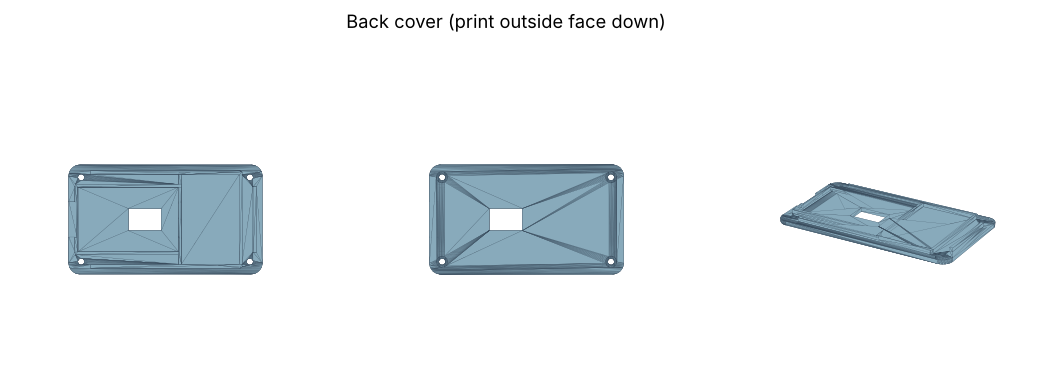
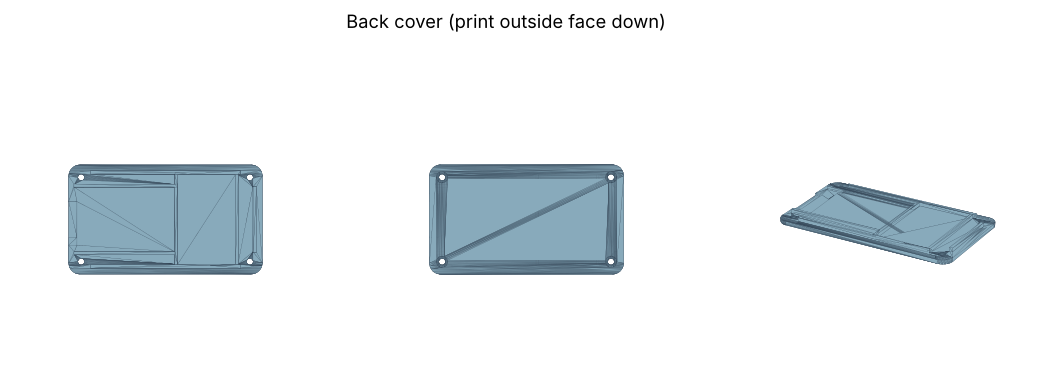
Reach the charger's switch through the left wall, not the back
The LiPo Amigo Pro's power switch is on its top, beside the USB-C socket.
The charger lies top towards the display, so the window in the back
cover faced the underside of its board and couldn't reach the switch.

The left wall's opening now takes in the switch's lever as well as the
USB-C plug: one opening, so no thin pillar of wall is left between
them. The back cover's lip no longer runs along the left wall, so the
charger's end goes right against it, about 2 mm from the outside, and
the switch slides with a fingernail or a pen tip. Where the lever sits
across the board isn't on any drawing to hand: AMIGO_SWITCH_ACROSS is
marked MEASURE.

Claude-Session: https://claude.ai/code/session_0192d9qTj9z8ZLN8ujS1jjpw

diff --git a/hardware/case/case.py b/hardware/case/case.py
@@ -10,13 +10,14 @@ layer behind the Pico, side by side, so the case is little bigger than the
 Display Pack:
 
     front.stl     the front shell: bezel with the display window, button
-                  and LED holes, side walls, the charger's USB-C opening and
-                  screw bosses. Print face down.
+                  and LED holes, side walls, an opening onto the charger's
+                  USB-C socket and power switch, and screw bosses. Print
+                  face down.
     shelf.stl     a shelf between the Pico and the battery layer: posts on
                   it hold the Pico into the Display Pack's sockets, and the
                   charger and battery hold it in place. Print flat, posts up.
     back.stl      the back cover: pockets for the charger and battery and a
-                  window onto the charger's switch. Print outside face down.
+                  Print outside face down.
     buttons.stl   four button caps for A, B, X and Y: a tab inside the
                   bezel keeps each in. Print tab down.
 
@@ -123,10 +124,13 @@ AMIGO_PCB = 1.0
 AMIGO_USB_H = 1.6
 ## Opening for a USB-C plug's moulding.
 AMIGO_USB_OPENING = (13.0, 7.5)
-## Power switch and LEDs, from its USB end and bottom edge: the back
-## cover's window. MEASURE.
-AMIGO_SWITCH = (24.0, 11.5)
-AMIGO_SWITCH_WINDOW = (12.0, 8.0)
+## Power switch: on its top, beside the USB-C socket at the same end, its
+## lever reached through the left wall. The lever's centre from the board's
+## edge nearest the case's bottom, and above the board. MEASURE.
+AMIGO_SWITCH_ACROSS = 18.5
+AMIGO_SWITCH_H = 1.5
+## Opening for the lever, beside the USB-C's: wide enough to slide it.
+AMIGO_SWITCH_OPENING = (7.0, 4.0)
 
 ## Its height with its connectors and switch (published).
 AMIGO_H = 7.0
@@ -196,9 +200,8 @@ DEPTH = Z_SPLIT + WALL
 ## wall, for its USB-C, and between the left-hand bosses) and the battery,
 ## turned, side by side. The battery needs to clear the right-hand bosses
 ## only if it reaches them; otherwise just the back cover's lip.
-INSIDE_L = max(PACK_L + 2 * BOSS_CLEAR,
-               LIP_T + FIT + AMIGO_L + GAP + BATTERY_W + FIT + LIP_T + FIT)
-_BATTERY_END = LIP_T + FIT + AMIGO_L + GAP + BATTERY_W + FIT
+INSIDE_L = max(PACK_L + 2 * BOSS_CLEAR, FIT + AMIGO_L + GAP + BATTERY_W + FIT + LIP_T + FIT)
+_BATTERY_END = FIT + AMIGO_L + GAP + BATTERY_W + FIT
 _BATTERY_MARGIN = BOSS_CLEAR if _BATTERY_END > INSIDE_L - BOSS_CLEAR else LIP_T + FIT
 INSIDE_H = max(PACK_W + FIT, AMIGO_W + FIT + 2 * BOSS_CLEAR,
                BATTERY_L + FIT + 2 * _BATTERY_MARGIN)
@@ -206,10 +209,10 @@ LENGTH = INSIDE_L + 2 * WALL
 HEIGHT = INSIDE_H + 2 * WALL
 
 ## Where things are on the case, from its outside bottom-left corner. The
-## charger's USB end is just inside the back cover's lip.
+## charger's USB end is against the left wall.
 BOARD_X = WALL + (INSIDE_L - PACK_L) / 2
 BOARD_Y = WALL + (INSIDE_H - PACK_W) / 2
-AMIGO_X = WALL + FIT / 2 + LIP_T + FIT / 2
+AMIGO_X = WALL + FIT / 2
 AMIGO_Y = (HEIGHT - AMIGO_W) / 2
 BATTERY_X = AMIGO_X + AMIGO_L + GAP
 BATTERY_Y = (HEIGHT - BATTERY_L) / 2
@@ -301,7 +304,11 @@ def pico_point(along, across):
     return BOARD_X + PICO_X + x, BOARD_Y + PICO_Y + across
 
 
-## @brief Cut the charger's USB-C opening, in the left wall.
+## @brief Cut the charger's opening in the left wall: one for its USB-C
+#         plug and its power switch's lever, beside each other.
+#
+# One opening rather than two, so that no thin pillar of wall is left
+# between them.
 #
 # The Pico's own USB socket gets no opening: the case comes open to flash
 # the Pico (four screws), which is also the way to its BOOTSEL button.
@@ -311,8 +318,12 @@ def pico_point(along, across):
 #
 # @sideeffects None.
 def usb_openings():
-    amigo_z = Z_SPLIT - AMIGO_PLATFORM - AMIGO_PCB - AMIGO_USB_H
-    return end_wall_opening(True, AMIGO_Y + AMIGO_W / 2, amigo_z, AMIGO_USB_OPENING)
+    board_z = Z_SPLIT - AMIGO_PLATFORM - AMIGO_PCB
+    usb = end_wall_opening(True, AMIGO_Y + AMIGO_W / 2, board_z - AMIGO_USB_H,
+                           AMIGO_USB_OPENING)
+    switch = end_wall_opening(True, AMIGO_Y + AMIGO_SWITCH_ACROSS, board_z - AMIGO_SWITCH_H,
+                              AMIGO_SWITCH_OPENING)
+    return Manifold.batch_hull([usb, switch])
 
 
 ## @brief Model the front shell.
@@ -347,8 +358,12 @@ def front_shell():
     return shell - usb_openings()
 
 
-## @brief Model the back cover's lip: strips along each wall, inside it,
+## @brief Model the back cover's lip: strips along the walls, inside them,
 #         that line the cover up with the shell.
+#
+# None along the left wall: the charger's end goes right against it, so
+# that its switch and USB-C socket are close to the outside. The other
+# three line the cover up.
 #
 # @return The lip, clear of the corner bosses.
 #
@@ -360,7 +375,6 @@ def back_lip():
     end = WALL + BOSS_D + 1.0
     return (box(end, i0, z0, LENGTH - end, i1, z1)
             + box(end, HEIGHT - i1, z0, LENGTH - end, HEIGHT - i0, z1)
-            + box(i0, end, z0, i1, HEIGHT - end, z1)
             + box(LENGTH - i1, end, z0, LENGTH - i0, HEIGHT - end, z1))
 
 
@@ -371,7 +385,8 @@ def back_lip():
 # @param length Part's length (x).
 # @param width Part's width (y).
 # @param height Wall height.
-# @param open_left Leave the left end open (for a connector).
+# @param open_left Leave the left end open (for a connector): the part's end
+#        is against the case's left wall.
 # @return The walls.
 #
 # @sideeffects None.
@@ -380,8 +395,10 @@ def pocket(x, y, length, width, height, open_left=False):
     t = 1.0
     x0, y0 = x - FIT / 2, y - FIT / 2
     x1, y1 = x + length + FIT / 2, y + width + FIT / 2
-    walls = (box(x0 - t, y0 - t, z0, x1 + t, y0, Z_SPLIT)
-             + box(x0 - t, y1, z0, x1 + t, y1 + t, Z_SPLIT)
+    # An open end is against the case's wall: the side walls stop there.
+    left = x0 if open_left else x0 - t
+    walls = (box(left, y0 - t, z0, x1 + t, y0, Z_SPLIT)
+             + box(left, y1, z0, x1 + t, y1 + t, Z_SPLIT)
              + box(x1, y0, z0, x1 + t, y1, Z_SPLIT))
     if not open_left:
         walls += box(x0 - t, y0, z0, x0, y1, Z_SPLIT)
@@ -391,8 +408,7 @@ def pocket(x, y, length, width, height, open_left=False):
 ## @brief Model the back cover.
 #
 # @return The cover: plate, lip, pockets for the charger and battery (the
-#         thinner of the two on a platform), screw holes and the charger's
-#         switch window.
+#         thinner of the two on a platform) and screw holes.
 #
 # @sideeffects None.
 def back_cover():
@@ -407,11 +423,6 @@ def back_cover():
     for x, y in BOSSES:
         cover -= cylinder(x, y, Z_SPLIT - 1, DEPTH + 1, SCREW_CLEAR_D)
         cover -= cylinder(x, y, DEPTH - SCREW_HEAD_H, DEPTH + 1, SCREW_HEAD_D)
-
-    sx = AMIGO_X + AMIGO_SWITCH[0]
-    sy = AMIGO_Y + AMIGO_SWITCH[1]
-    w, h = AMIGO_SWITCH_WINDOW
-    cover -= box(sx - w / 2, sy - h / 2, Z_SPLIT - 3, sx + w / 2, sy + h / 2, DEPTH + 1)
 
     return cover - usb_openings()
 

diff --git a/hardware/README.md b/hardware/README.md
@@ -21,7 +21,8 @@ printed parts, screwed together, plus four button caps.
   - the bezel, with a window onto the display's active area, and holes for
     the button caps and the RGB LED
   - a frame that locates the Display Pack
-  - the charger's USB-C opening in the left wall
+  - an opening in the left wall onto the charger's USB-C socket and power
+    switch, which sit side by side at its end
   - four corner bosses for the screws, beside the Display Pack's ends, so
     it slides in past them
 - **Shelf** (`shelf.stl`): a plate between the Pico and the battery layer.
@@ -29,9 +30,9 @@ printed parts, screwed together, plus four button caps.
   the Display Pack's sockets. The charger and battery behind keep the shelf
   pressed onto the Pico. Two slots at the Pico's USB end let the power
   wires through.
-- **Back cover** (`back.stl`): pockets for the charger and the battery, a
-  window onto the charger's power switch, and a lip that lines it up with
-  the shell. The thinner of the charger and the battery stands on a
+- **Back cover** (`back.stl`): pockets for the charger and the battery,
+  and a lip along three sides that lines it up with the shell. There's no
+  lip on the left, so the charger's end goes right against the wall. The thinner of the charger and the battery stands on a
   platform, so that both sit just behind the shelf. With the 350 mAh cell
   the charger is only 0.8 mm short, which the foam tape under it takes up.
 - **Button caps** (`buttons.stl`): each one has a stem through the bezel
@@ -59,7 +60,8 @@ before printing:
 | `BUTTON_TOP_H` | Height of a button's top above the board | 1.5 mm |
 | `PICO_USB_LEFT` | Whether the Pico's USB socket is at the A/B end (left, looking at the display) or the X/Y end. This places the shelf's posts and wire slots | A/B end |
 | `PICO_X`, `PICO_Y` | Where the Pico sits on the Display Pack's back | 2.5, 7.0 mm |
-| `AMIGO_SWITCH` | The charger's switch and LEDs, from its USB-C end | 24.0, 11.5 mm |
+| `AMIGO_SWITCH_ACROSS` | The middle of the charger's switch lever, from the board's edge nearest the case's bottom (with the charger's top facing the display) | 18.5 mm |
+| `AMIGO_SWITCH_H` | The middle of the lever, above the charger's board | 1.5 mm |
 
 Every run checks that the parts inside (modelled as blocks) clear the case,
 and prints any clash.
@@ -118,7 +120,8 @@ needed:
    - Plug the Pico's lead into **DEVICE**.
 7. **Close the case.** Turn the shell over onto the cover, so the lip goes
    inside the walls, and fit the four M2 screws.
-8. **Switch on** with the charger's switch, through the window in the back.
+8. **Switch on** with the charger's switch, beside the USB-C socket in the
+   left wall. A fingernail or a pen tip slides it.
 
 The charger's USB-C socket charges the battery, and powers the meter while
 a cable is plugged in.
